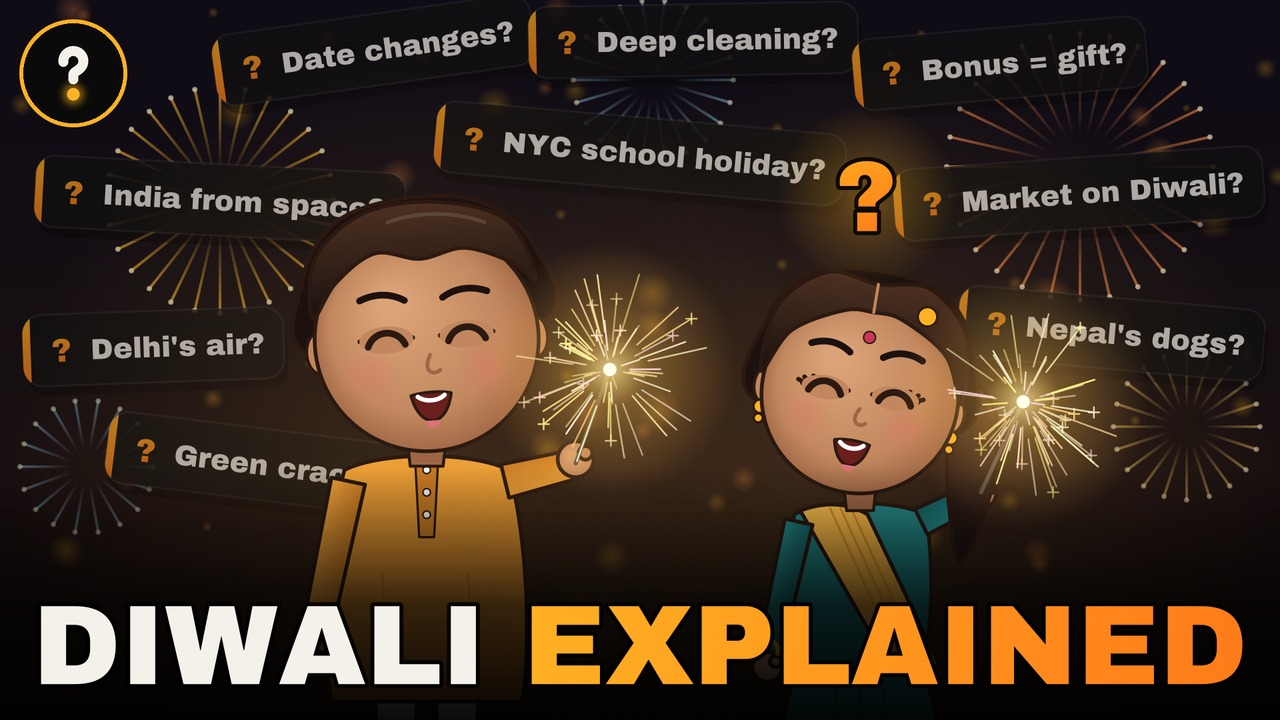
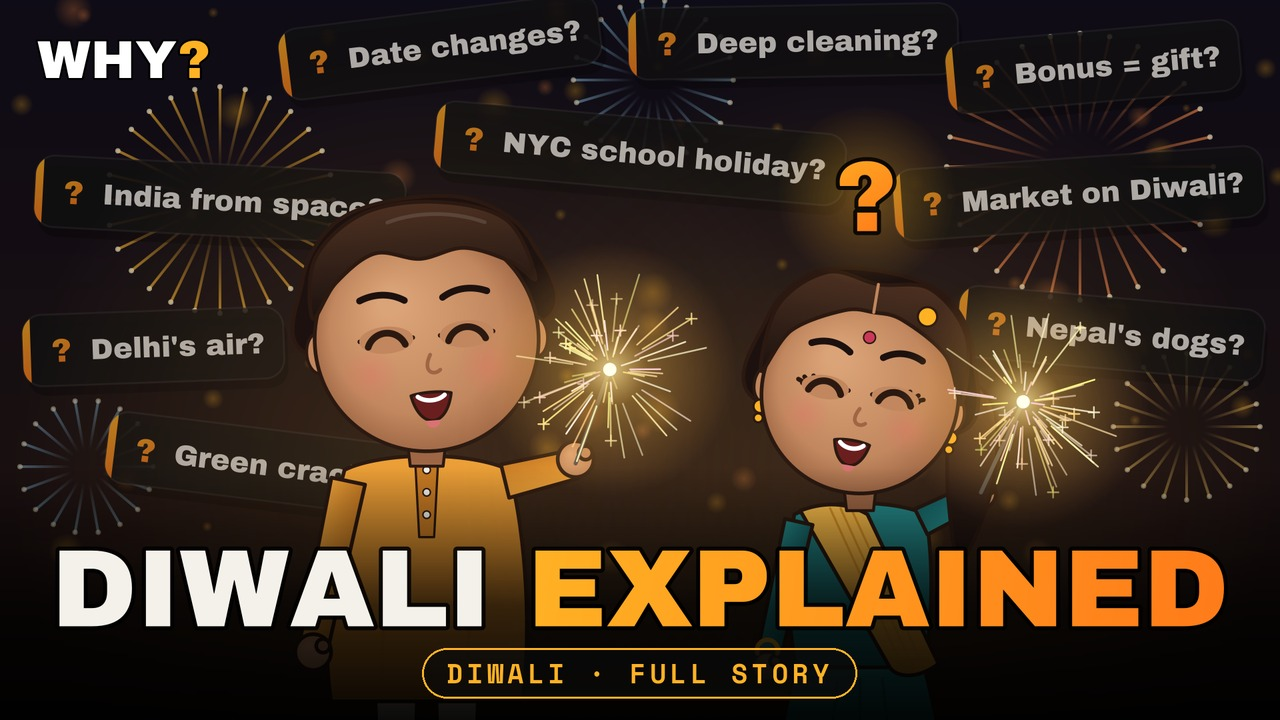
Diwali long thumbnail: Shorts-style WHY? wordmark + series pill
Claude-Session: https://claude.ai/code/session_01BdKa2s4mjjS1mqZWmX9AiL

Changed region(s): [[0.0312, 0.7333, 0.9688, 0.9778], [0.0, 0.0, 0.9688, 0.1833]]

diff --git a/videos/2026-11-01_long_diwali_explained/pipeline/thumb2.py b/videos/2026-11-01_long_diwali_explained/pipeline/thumb2.py
@@ -31,7 +31,7 @@ burst(330, 300, 170, (1.0, 0.72, 0.2)); burst(1620, 250, 200, (1.0, 0.55, 0.3));
 burst(1780, 640, 110, (1.0, 0.8, 0.4), 20, 0.6); burst(130, 700, 100, (0.6, 0.85, 1.0), 18, 0.5)
 # question cards across the background
 POS = [(300, 150, -6), (760, 90, 3), (1250, 110, -3), (1700, 120, 5), (170, 470, 4), (1760, 420, -5), (420, 640, -3), (1560, 640, 4), (980, 300, 2)]
-POS = [(560, 75, -4), (1040, 60, 2), (1500, 95, -3), (330, 300, 4), (1640, 290, -4), (230, 520, -3), (1700, 500, 3), (960, 230, 2), (420, 700, 3)]
+POS = [(660, 70, -3), (1190, 62, 2), (1640, 100, -3), (330, 300, 4), (1640, 290, -4), (230, 520, -3), (1700, 500, 3), (960, 230, 2), (420, 700, 3)]
 for i, (x, y, r) in enumerate(POS):
     w = (text_w(c, L(*G1.QCARDS[i]), 30) + 90) * 1.45
     x = min(max(x, w / 2 + 24), W - w / 2 - 24)
@@ -82,17 +82,33 @@ RM.qmark(c, cx + 10, by - (660 + 168) * CS - 110, 150, 0.0, 1.0)
 g = cairo.LinearGradient(0, 700, 0, H); g.add_color_stop_rgba(0, 0, 0, 0, 0); g.add_color_stop_rgba(0.55, 0, 0, 0, 0.75); g.add_color_stop_rgba(1, 0, 0, 0, 0.95)
 c.set_source(g); c.rectangle(0, 700, W, H - 700); c.fill()
 if LANG == 'en':
-    w1 = text_w(c, 'DIWALI ', 170); w2 = text_w(c, 'EXPLAINED', 170); x0 = W / 2 - (w1 + w2) / 2
-    txt(c, 'DIWALI ', x0, 965, 170, CREAM, anchor='l', stroke=12); txt(c, 'EXPLAINED', x0 + w1, 965, 170, grad=True, anchor='l', stroke=12)
+    w1 = text_w(c, 'DIWALI ', 165); w2 = text_w(c, 'EXPLAINED', 165); x0 = W / 2 - (w1 + w2) / 2
+    txt(c, 'DIWALI ', x0, 880, 165, CREAM, anchor='l', stroke=12); txt(c, 'EXPLAINED', x0 + w1, 880, 165, grad=True, anchor='l', stroke=12)
 else:
-    w1 = text_w(c, 'దీపావళి ', 160); w2 = text_w(c, 'వివరంగా', 160); x0 = W / 2 - (w1 + w2) / 2
-    txt(c, 'దీపావళి ', x0, 955, 160, CREAM, anchor='l', stroke=12); txt(c, 'వివరంగా', x0 + w1, 955, 160, grad=True, anchor='l', stroke=12)
-# logo top-left
-av = Image.open('/home/claude/why-channel-studio/brand/avatars/' + ('why_profile_2160.png' if LANG == 'en' else 'why_telugu_profile_2160.png')).convert('RGBA').resize((150, 150), Image.LANCZOS)
-m = Image.new('L', (150, 150), 0); from PIL import ImageDraw; ImageDraw.Draw(m).ellipse((0, 0, 149, 149), fill=255); av.putalpha(m)
-sf, _ = surf_from_pil(av)
-c.set_source_rgba(*AMBER, 1); c.arc(110, 110, 81, 0, 2 * math.pi); c.fill()
-c.set_source_surface(sf, 35, 35); c.paint()
+    w1 = text_w(c, 'దీపావళి ', 155); w2 = text_w(c, 'వివరంగా', 155); x0 = W / 2 - (w1 + w2) / 2
+    txt(c, 'దీపావళి ', x0, 870, 155, CREAM, anchor='l', stroke=12); txt(c, 'వివరంగా', x0 + w1, 870, 155, grad=True, anchor='l', stroke=12)
 a = np.ndarray((H, W, 4), np.uint8, s.get_data())[:, :, [2, 1, 0]].copy()
-Image.fromarray(a).resize((1280, 720), Image.LANCZOS).save(f'/home/claude/dl/thumb2_diwali_long_{LANG.upper()}.jpg', quality=92)
+import sys
+sys.path.insert(0, '/home/claude/why-channel-studio/videos/2026-10-26_short_gold_stardust/pipeline'); sys.path.insert(0, '/home/claude/elnino')
+from thumbkit import logo
+from epic import font as efont
+from PIL import ImageFont, ImageDraw
+base = Image.fromarray(a).convert('RGBA')
+def tagpill(im, text, cy):
+    if LANG == 'en': f = efont('mono', 40)
+    else:
+        f = ImageFont.truetype('/home/claude/fonts/NotoSansTelugu.ttf', 40, layout_engine=ImageFont.Layout.RAQM)
+        try: f.set_variation_by_name('Bold')
+        except Exception: pass
+    w = int(f.getlength(text) + (len(text) * 6 if LANG == 'en' else 0) + 76); h = 78
+    t = Image.new('RGBA', (w, h), (0, 0, 0, 0)); d = ImageDraw.Draw(t)
+    d.rounded_rectangle((1, 1, w - 2, h - 2), radius=39, fill=(10, 10, 10, 170), outline=(255, 178, 36, 255), width=3)
+    if LANG == 'en':
+        x = 38
+        for ch in text: d.text((x, h / 2), ch, font=f, fill=(255, 178, 36), anchor='lm'); x += f.getlength(ch) + 6
+    else: d.text((w / 2, h / 2), text, font=f, fill=(255, 178, 36), anchor='mm')
+    im.alpha_composite(t, (int((W - w) / 2), cy - h // 2))
+tagpill(base, 'DIWALI · FULL STORY' if LANG == 'en' else 'దీపావళి · FULL STORY', 1010)
+logo(base, 56, 46, 80)
+base.convert('RGB').resize((1280, 720), Image.LANCZOS).save(f'/home/claude/dl/thumb2_diwali_long_{LANG.upper()}.jpg', quality=92)
 print('ok')
